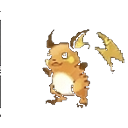
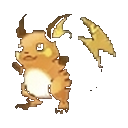
보스 스프라이트 재크롭 + 왕관 이모지 적용
- 20종 PNG 균일 사이즈로 재크롭 (110px 기준, 경계선 필터링)
- 우측 열 포켓몬 이름 매핑 수정 (11-20번: 이브이~가디)
- 픽셀아트 왕관 → 👑 이모지로 교체

diff --git a/src/App.jsx b/src/App.jsx
@@ -1033,14 +1033,13 @@ export default function WildCatch() {
         const size = 108;
         ctx.drawImage(img, -size / 2, -size / 2, size, size);
 
-      // ── crown ──
-      ctx.fillStyle = '#FFD700';
-      ctx.shadowColor = '#FFD700'; ctx.shadowBlur = 8;
-      for (let ci = 0; ci < 3; ci++) {
-        const cx2 = (-1 + ci) * sc * 3;
-        ctx.fillRect(cx2 - sc/2, -7*sc, sc, sc*2);
-        ctx.beginPath(); ctx.arc(cx2, -8*sc, sc*0.8, 0, Math.PI*2); ctx.fill();
-      }
+      // ── crown emoji ──
+      ctx.font = 'bold 26px serif';
+      ctx.textAlign = 'center';
+      ctx.textBaseline = 'bottom';
+      ctx.shadowColor = '#FFD700';
+      ctx.shadowBlur = 14;
+      ctx.fillText('👑', 0, -size / 2 + 4);
       ctx.shadowBlur = 0;
       ctx.restore();
       return;
